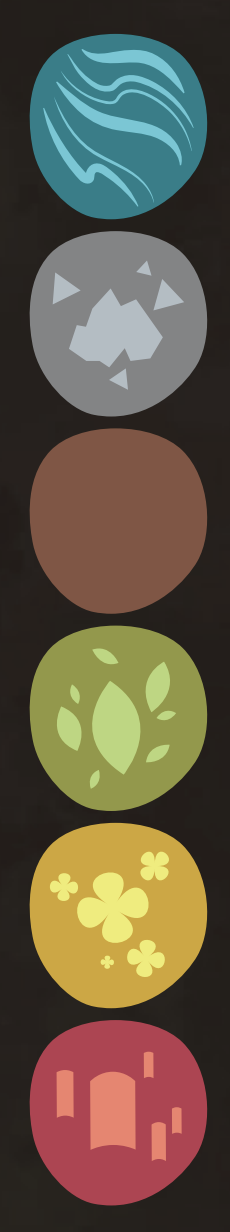
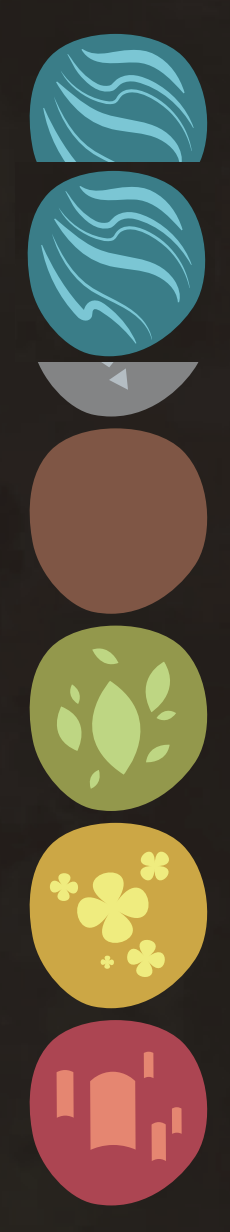
Optimize mobile animation performance and fix background visibility
- Switched token-falling animation from 'top' to 'translate3d' for GPU acceleration
- Added 'will-change', 'backface-visibility', and 'contain' properties to prevent rendering glitches
- Moved background gradient to 'html' to ensure 'body::before' visibility
- Improved rendering stability on mobile by forcing hardware acceleration on tokens

Changed region(s): [[0.1217, 0.1234, 0.913, 0.3084]]

diff --git a/script.js b/script.js
@@ -107,19 +107,23 @@ async function discardTokens() {
             // Position so that the center of the element is at the original center
             fallToken.style.left = `${centerX - halfWidth}px`;
             fallToken.style.top = `${centerY - halfHeight}px`;
-            fallToken.style.transform = currentTransform;
+            // Preserve the original rotation but force a 3D layer
+            fallToken.style.transform = `${currentTransform} translate3d(0, 0, 0)`;
             fallToken.style.zIndex = '1000';
             fallToken.style.transition = 'none';
+            fallToken.style.pointerEvents = 'none';
+            fallToken.style.willChange = 'transform';
             document.body.appendChild(fallToken);
 
             // Force reflow
             fallToken.offsetHeight;
-            fallToken.style.transition = 'top 1s ease-in, transform 1s ease-in';
+            fallToken.style.transition = 'transform 1s ease-in';
 
             // Fall animation
             setTimeout(() => {
-                fallToken.style.top = `${window.innerHeight + 100}px`;
-                fallToken.style.transform = `rotate(${(Math.random() - 0.5) * 720}deg)`;
+                const distance = window.innerHeight + 100 - (centerY - halfHeight);
+                // Note: overwriting transform will interpolate from original matrix to this new state
+                fallToken.style.transform = `translate3d(0, ${distance}px, 0) rotate(${(Math.random() - 0.5) * 720}deg)`;
             }, index * 60);
 
             setTimeout(() => {
@@ -205,9 +209,9 @@ async function drawNewTokens() {
             const token = document.createElement('div');
             token.className = `token ${tokens[tokenIndex]}`;
 
-            // Random rotation - set immediately
+            // Random rotation - set immediately with 3D transform for performance
             const rotation = Math.floor(Math.random() * 360);
-            token.style.transform = `rotate(${rotation}deg)`;
+            token.style.transform = `translate3d(0, 0, 0) rotate(${rotation}deg)`;
 
             // Start invisible
             token.style.opacity = '0';
@@ -218,7 +222,7 @@ async function drawNewTokens() {
             token.offsetHeight;
 
             // Now set transition and fade in with random delay
-            token.style.transition = 'opacity 1.5s ease-out';
+            token.style.transition = 'opacity 1.5s ease-out, transform 1.5s ease-out';
 
             // Random delay between 0-800ms
             const randomDelay = Math.random() * 800;

diff --git a/style.css b/style.css
@@ -1,21 +1,34 @@
 /* Reset and base styles */
-* {
+html {
     margin: 0;
     padding: 0;
+    overflow-x: hidden;
+    width: 100%;
+    /* Gradient on HTML to let body pseudo-element stack on top */
+    background: linear-gradient(135deg, rgb(230, 210, 185) 0%, rgb(210, 190, 165) 100%);
+    background-attachment: fixed;
+}
+
+* {
     box-sizing: border-box;
+    -webkit-tap-highlight-color: transparent;
 }
 
 body {
+    margin: 0;
+    padding: 40px 20px;
     font-family: -apple-system, BlinkMacSystemFont, 'Segoe UI', Roboto, Oxygen, Ubuntu, Cantarell, sans-serif;
     line-height: 1.6;
     color: rgb(134, 83, 64);
-    background: linear-gradient(135deg, rgb(230, 210, 185) 0%, rgb(210, 190, 165) 100%);
     min-height: 100vh;
     display: flex;
     align-items: center;
     justify-content: center;
-    padding: 40px 20px;
     position: relative;
+    width: 100%;
+    overflow-x: hidden;
+    /* Ensure body doesn't cover its own pseudo-element if it background was here */
+    background: transparent;
 }
 
 body::before {
@@ -154,6 +167,8 @@ body::before {
     display: flex;
     align-items: center;
     justify-content: center;
+    /* Isolate group rendering */
+    contain: paint;
 }
 
 .group-tokens {
@@ -177,6 +192,11 @@ body::before {
     background-size: cover;
     background-position: center;
     box-shadow: 0 6px 15px rgba(0, 0, 0, 0.5);
+    /* Performance optimizations for mobile */
+    -webkit-backface-visibility: hidden;
+    backface-visibility: hidden;
+    transform: translate3d(0, 0, 0);
+    will-change: transform, opacity;
 }
 
 /* Token Images */
@@ -235,7 +255,7 @@ body::before {
 
 .toast.falling {
     opacity: 0;
-    transform: translateY(1000px) rotate(45deg);
+    transform: translate3d(0, 1000px, 0) rotate(45deg);
     transition: all 1.2s ease-in;
 }
 
